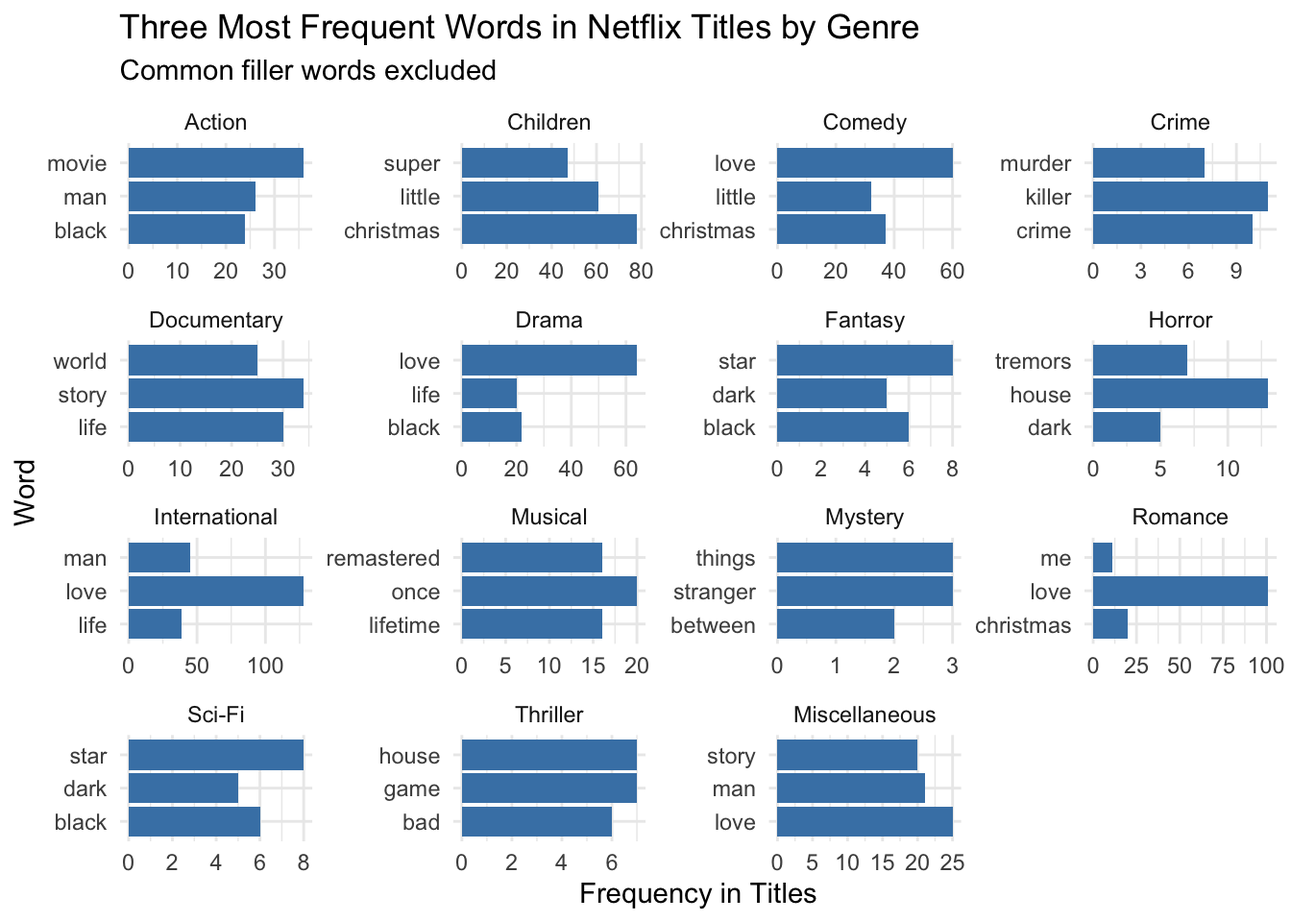
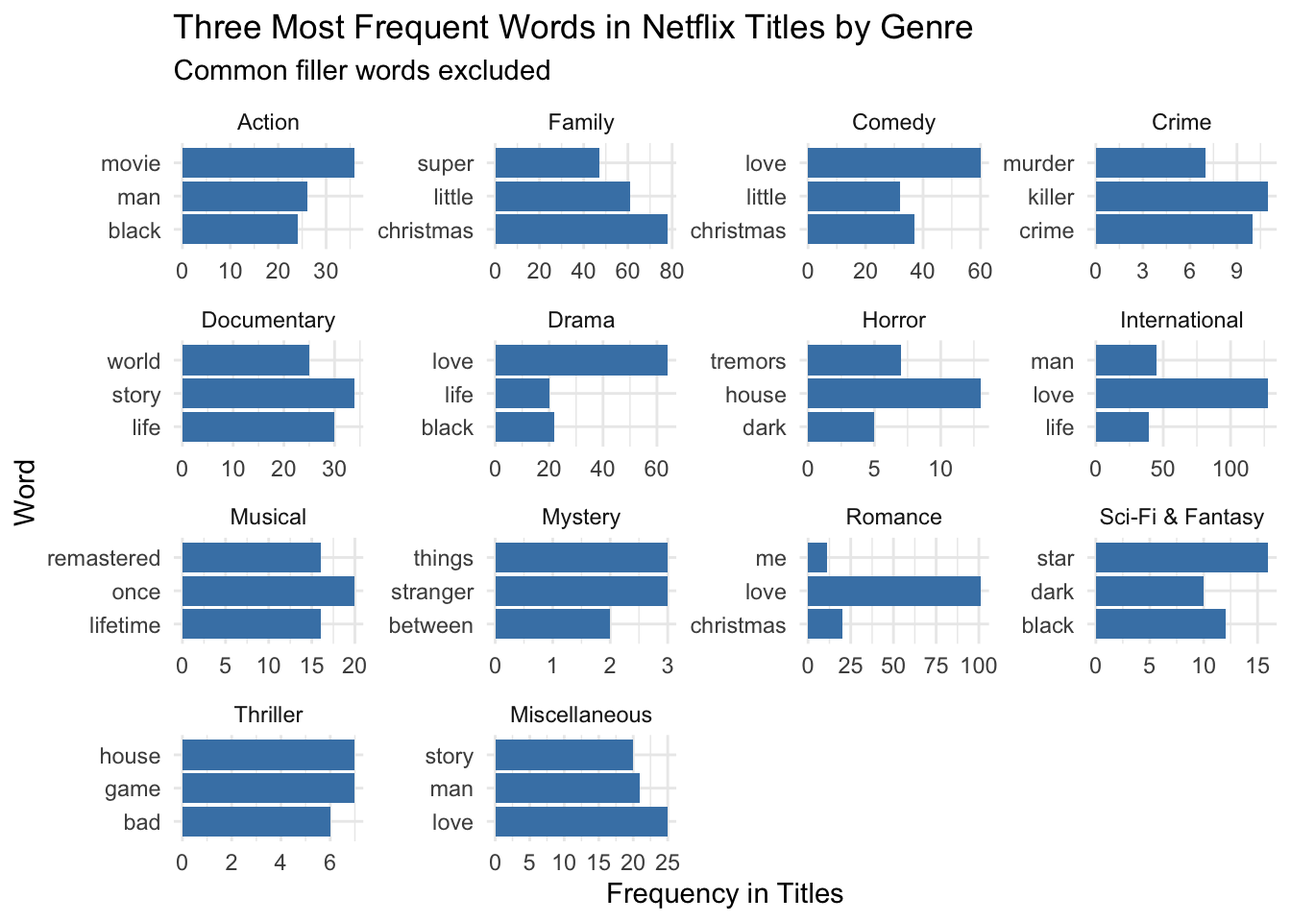
little visualization edits and my description of visualization 1

diff --git a/docs/netflixanalysis.html b/docs/netflixanalysis.html
@@ -354,8 +354,8 @@ pre > code.sourceCode > span > a:first-child::before { text-decoration: underlin
   <li><a href="#data-analysis" id="toc-data-analysis" class="nav-link" data-scroll-target="#data-analysis">Data Analysis</a>
   <ul class="collapse">
   <li><a href="#visualization-1" id="toc-visualization-1" class="nav-link" data-scroll-target="#visualization-1">Visualization 1</a></li>
-  </ul></li>
   <li><a href="#visualization-2" id="toc-visualization-2" class="nav-link" data-scroll-target="#visualization-2">Visualization 2</a></li>
+  </ul></li>
   </ul>
 </nav>
     </div>
@@ -409,8 +409,9 @@ pre > code.sourceCode > span > a:first-child::before { text-decoration: underlin
 </div>
 <section id="introduction" class="level1">
 <h1>Introduction</h1>
-<p>Movie and TV show titles are the first things users look at when trying to decide what to watch on streaming platforms like Netflix. While titles are often short, they are meant to draw audiences in, convince them to watch a movie/show, and hint at what the movie might be about. Thus, my first visualization explores the most frequent words that appear in titles across genres. Specifically, I am looking at 15 genres: Action, Comedy, Drama, Horror, Romance, Sci-Fi, Fantasy, Thriller, Mystery, Documentaries, Musical, Crime, Children, International, and Miscellaneous.</p>
-<p>Next, I will look at how title vocabulary changed before and during Covid-19. Specifically, I want to see whether words that center around disease, death, isolation, and other pandemic-related imagery were more common in movie titles before and during Covid.</p>
+<p>Movie and TV show titles are the first things users look at when trying to decide what to watch on streaming platforms like Netflix. While titles are often short, they are meant to draw audiences in, convince them to watch a movie/show, and hint at what the movie might be about. Thus, for my project, I am looking at what types of words occur in titles throughout genres and during different time periods, to see ___.</p>
+<p>My first visualization explores the most frequent words that appear in titles across genres. Specifically, I am looking at 14 genres: Action, Comedy, Drama, Horror, Romance, Sci-Fi &amp; Fantasy, Thriller, Mystery, Documentaries, Musical, Crime, Family, International, and Miscellaneous.</p>
+<p>Next, I will look at how title vocabulary changed before and during Covid-19. Specifically, I want to see whether words that center around disease, death, isolation, and other pandemic-related imagery were more common in movie titles during Covid as opposed to before.</p>
 </section>
 <section id="about-the-data" class="level1">
 <h1>About the Data</h1>
@@ -426,14 +427,14 @@ pre > code.sourceCode > span > a:first-child::before { text-decoration: underlin
 <div class="cell">
 <details class="code-fold">
 <summary>Show the code</summary>
-<div class="code-copy-outer-scaffold"><div class="sourceCode cell-code" id="cb2"><pre class="sourceCode r code-with-copy"><code class="sourceCode r"><span id="cb2-1"><a href="#cb2-1" aria-hidden="true" tabindex="-1"></a><span class="co">#Creating a subset of the netflix_titles dataset</span></span>
+<div class="code-copy-outer-scaffold"><div class="sourceCode cell-code" id="cb2"><pre class="sourceCode r code-with-copy"><code class="sourceCode r"><span id="cb2-1"><a href="#cb2-1" aria-hidden="true" tabindex="-1"></a><span class="co">#creating a subset of the netflix_titles dataset</span></span>
 <span id="cb2-2"><a href="#cb2-2" aria-hidden="true" tabindex="-1"></a>cleaned_titles <span class="ot">&lt;-</span> netflix_titles <span class="sc">|&gt;</span></span>
 <span id="cb2-3"><a href="#cb2-3" aria-hidden="true" tabindex="-1"></a>    <span class="fu">select</span>(show_id, type, title, listed_in, release_year) <span class="sc">|&gt;</span></span>
 <span id="cb2-4"><a href="#cb2-4" aria-hidden="true" tabindex="-1"></a>    <span class="fu">filter</span>(<span class="sc">!</span><span class="fu">is.na</span>(title), <span class="sc">!</span><span class="fu">is.na</span>(listed_in)) <span class="sc">|&gt;</span></span>
 <span id="cb2-5"><a href="#cb2-5" aria-hidden="true" tabindex="-1"></a>    <span class="fu">separate_rows</span>(listed_in, <span class="at">sep =</span> <span class="st">", "</span>) <span class="sc">|&gt;</span></span>
 <span id="cb2-6"><a href="#cb2-6" aria-hidden="true" tabindex="-1"></a>    <span class="fu">separate_rows</span>(listed_in, <span class="at">sep =</span> <span class="st">"&amp; "</span>)</span>
 <span id="cb2-7"><a href="#cb2-7" aria-hidden="true" tabindex="-1"></a></span>
-<span id="cb2-8"><a href="#cb2-8" aria-hidden="true" tabindex="-1"></a><span class="co">#Adding variables and formatting the cleaned_titles dataset</span></span>
+<span id="cb2-8"><a href="#cb2-8" aria-hidden="true" tabindex="-1"></a><span class="co">#adding variables and formatting the cleaned_titles dataset</span></span>
 <span id="cb2-9"><a href="#cb2-9" aria-hidden="true" tabindex="-1"></a>cleaned_titles <span class="ot">&lt;-</span> cleaned_titles <span class="sc">|&gt;</span></span>
 <span id="cb2-10"><a href="#cb2-10" aria-hidden="true" tabindex="-1"></a>    <span class="fu">mutate</span>(<span class="at">listed_in =</span> <span class="fu">str_to_lower</span>(listed_in)) <span class="sc">|&gt;</span> <span class="co">#string function 1</span></span>
 <span id="cb2-11"><a href="#cb2-11" aria-hidden="true" tabindex="-1"></a>    <span class="fu">mutate</span>(<span class="at">genre =</span> <span class="fu">ifelse</span>(</span>
@@ -447,25 +448,22 @@ pre > code.sourceCode > span > a:first-child::before { text-decoration: underlin
 <span id="cb2-19"><a href="#cb2-19" aria-hidden="true" tabindex="-1"></a></span>
 <span id="cb2-20"><a href="#cb2-20" aria-hidden="true" tabindex="-1"></a>            <span class="fu">ifelse</span>(<span class="fu">str_detect</span>(listed_in, <span class="st">"romant"</span>), <span class="st">"Romance"</span>,</span>
 <span id="cb2-21"><a href="#cb2-21" aria-hidden="true" tabindex="-1"></a></span>
-<span id="cb2-22"><a href="#cb2-22" aria-hidden="true" tabindex="-1"></a>            <span class="fu">ifelse</span>(<span class="fu">str_detect</span>(listed_in, <span class="st">"sci-fi"</span>), <span class="st">"Sci-Fi"</span>,</span>
+<span id="cb2-22"><a href="#cb2-22" aria-hidden="true" tabindex="-1"></a>            <span class="fu">ifelse</span>(<span class="fu">str_detect</span>(listed_in, <span class="st">"sci-fi"</span>) <span class="sc">|</span> <span class="fu">str_detect</span>(listed_in, <span class="st">"fantasy"</span>), <span class="st">"Sci-Fi &amp; Fantasy"</span>,</span>
 <span id="cb2-23"><a href="#cb2-23" aria-hidden="true" tabindex="-1"></a></span>
-<span id="cb2-24"><a href="#cb2-24" aria-hidden="true" tabindex="-1"></a>            <span class="fu">ifelse</span>(<span class="fu">str_detect</span>(listed_in, <span class="st">"fantasy"</span>), <span class="st">"Fantasy"</span>,</span>
+<span id="cb2-24"><a href="#cb2-24" aria-hidden="true" tabindex="-1"></a>            <span class="fu">ifelse</span>(<span class="fu">str_detect</span>(listed_in, <span class="st">"thriller"</span>), <span class="st">"Thriller"</span>,</span>
 <span id="cb2-25"><a href="#cb2-25" aria-hidden="true" tabindex="-1"></a></span>
-<span id="cb2-26"><a href="#cb2-26" aria-hidden="true" tabindex="-1"></a>            <span class="fu">ifelse</span>(<span class="fu">str_detect</span>(listed_in, <span class="st">"thriller"</span>), <span class="st">"Thriller"</span>,</span>
+<span id="cb2-26"><a href="#cb2-26" aria-hidden="true" tabindex="-1"></a>            <span class="fu">ifelse</span>(<span class="fu">str_detect</span>(listed_in, <span class="st">"myster"</span>), <span class="st">"Mystery"</span>,</span>
 <span id="cb2-27"><a href="#cb2-27" aria-hidden="true" tabindex="-1"></a></span>
-<span id="cb2-28"><a href="#cb2-28" aria-hidden="true" tabindex="-1"></a>            <span class="fu">ifelse</span>(<span class="fu">str_detect</span>(listed_in, <span class="st">"myster"</span>), <span class="st">"Mystery"</span>,</span>
+<span id="cb2-28"><a href="#cb2-28" aria-hidden="true" tabindex="-1"></a>            <span class="fu">ifelse</span>(<span class="fu">str_detect</span>(listed_in, <span class="st">"docu"</span>) <span class="sc">|</span> <span class="fu">str_detect</span>(listed_in, <span class="st">"nature"</span>) <span class="sc">|</span> <span class="fu">str_detect</span>(listed_in, <span class="st">"science"</span>), <span class="st">"Documentary"</span>,</span>
 <span id="cb2-29"><a href="#cb2-29" aria-hidden="true" tabindex="-1"></a></span>
-<span id="cb2-30"><a href="#cb2-30" aria-hidden="true" tabindex="-1"></a>            <span class="fu">ifelse</span>(<span class="fu">str_detect</span>(listed_in, <span class="st">"docu"</span>) <span class="sc">|</span> <span class="fu">str_detect</span>(listed_in, <span class="st">"nature"</span>) <span class="sc">|</span> <span class="fu">str_detect</span>(listed_in, <span class="st">"science"</span>), <span class="st">"Documentary"</span>,</span>
+<span id="cb2-30"><a href="#cb2-30" aria-hidden="true" tabindex="-1"></a>            <span class="fu">ifelse</span>(<span class="fu">str_detect</span>(listed_in, <span class="st">"music"</span>), <span class="st">"Musical"</span>,</span>
 <span id="cb2-31"><a href="#cb2-31" aria-hidden="true" tabindex="-1"></a></span>
-<span id="cb2-32"><a href="#cb2-32" aria-hidden="true" tabindex="-1"></a>            <span class="fu">ifelse</span>(<span class="fu">str_detect</span>(listed_in, <span class="st">"music"</span>), <span class="st">"Musical"</span>,</span>
+<span id="cb2-32"><a href="#cb2-32" aria-hidden="true" tabindex="-1"></a>            <span class="fu">ifelse</span>(<span class="fu">str_detect</span>(listed_in, <span class="st">"crime"</span>), <span class="st">"Crime"</span>,</span>
 <span id="cb2-33"><a href="#cb2-33" aria-hidden="true" tabindex="-1"></a></span>
-<span id="cb2-34"><a href="#cb2-34" aria-hidden="true" tabindex="-1"></a>            <span class="fu">ifelse</span>(<span class="fu">str_detect</span>(listed_in, <span class="st">"crime"</span>), <span class="st">"Crime"</span>,</span>
+<span id="cb2-34"><a href="#cb2-34" aria-hidden="true" tabindex="-1"></a>            <span class="fu">ifelse</span>(<span class="fu">str_detect</span>(listed_in, <span class="st">"children"</span>) <span class="sc">|</span> <span class="fu">str_detect</span>(listed_in, <span class="st">"kid"</span>) <span class="sc">|</span> <span class="fu">str_detect</span>(listed_in, <span class="st">"teen"</span>) <span class="sc">|</span> <span class="fu">str_detect</span>(listed_in, <span class="st">"family"</span>), <span class="st">"Family"</span>, </span>
 <span id="cb2-35"><a href="#cb2-35" aria-hidden="true" tabindex="-1"></a></span>
-<span id="cb2-36"><a href="#cb2-36" aria-hidden="true" tabindex="-1"></a>            <span class="fu">ifelse</span>(<span class="fu">str_detect</span>(listed_in, <span class="st">"children"</span>) <span class="sc">|</span> <span class="fu">str_detect</span>(listed_in, <span class="st">"kid"</span>) <span class="sc">|</span> <span class="fu">str_detect</span>(listed_in, <span class="st">"teen"</span>) <span class="sc">|</span> <span class="fu">str_detect</span>(listed_in, <span class="st">"family"</span>), <span class="st">"Children"</span>, </span>
-<span id="cb2-37"><a href="#cb2-37" aria-hidden="true" tabindex="-1"></a></span>
-<span id="cb2-38"><a href="#cb2-38" aria-hidden="true" tabindex="-1"></a>            <span class="fu">ifelse</span>(<span class="fu">str_detect</span>(listed_in, <span class="st">"international"</span>) <span class="sc">|</span> <span class="fu">str_detect</span>(listed_in, <span class="st">"british"</span>) <span class="sc">|</span> <span class="fu">str_detect</span>(listed_in, <span class="st">"korean"</span>) <span class="sc">|</span> <span class="fu">str_detect</span>(listed_in, <span class="st">"spanish"</span>), <span class="st">"International"</span>,</span>
-<span id="cb2-39"><a href="#cb2-39" aria-hidden="true" tabindex="-1"></a>            <span class="st">"Miscellaneous"</span>))))))))))))))</span>
-<span id="cb2-40"><a href="#cb2-40" aria-hidden="true" tabindex="-1"></a>        )</span></code></pre></div><button title="Copy to Clipboard" class="code-copy-button"><i class="bi"></i></button></div>
+<span id="cb2-36"><a href="#cb2-36" aria-hidden="true" tabindex="-1"></a>            <span class="fu">ifelse</span>(<span class="fu">str_detect</span>(listed_in, <span class="st">"international"</span>) <span class="sc">|</span> <span class="fu">str_detect</span>(listed_in, <span class="st">"british"</span>) <span class="sc">|</span> <span class="fu">str_detect</span>(listed_in, <span class="st">"korean"</span>) <span class="sc">|</span> <span class="fu">str_detect</span>(listed_in, <span class="st">"spanish"</span>), <span class="st">"International"</span>,</span>
+<span id="cb2-37"><a href="#cb2-37" aria-hidden="true" tabindex="-1"></a>            <span class="st">"Miscellaneous"</span>))))))))))))))</span></code></pre></div><button title="Copy to Clipboard" class="code-copy-button"><i class="bi"></i></button></div>
 </details>
 </div>
 <section id="visualization-1" class="level2">
@@ -476,7 +474,7 @@ pre > code.sourceCode > span > a:first-child::before { text-decoration: underlin
 <div class="code-copy-outer-scaffold"><div class="sourceCode cell-code" id="cb3"><pre class="sourceCode r code-with-copy"><code class="sourceCode r"><span id="cb3-1"><a href="#cb3-1" aria-hidden="true" tabindex="-1"></a><span class="co">#filler words that need to be excluded</span></span>
 <span id="cb3-2"><a href="#cb3-2" aria-hidden="true" tabindex="-1"></a>stop_words <span class="ot">&lt;-</span> <span class="fu">c</span>(<span class="st">"the"</span>, <span class="st">"and"</span>, <span class="st">"for"</span>, <span class="st">"with"</span>, <span class="st">"you"</span>, <span class="st">"your"</span>, <span class="st">"are"</span>, <span class="st">"was"</span>, <span class="st">"but"</span>, <span class="st">"not"</span>, <span class="st">"from"</span>, <span class="st">"this"</span>, <span class="st">"that"</span>, <span class="st">"his"</span>, <span class="st">"her"</span>, <span class="st">"its"</span>, <span class="st">"our"</span>, <span class="st">"out"</span>, <span class="st">"one"</span>, <span class="st">"two"</span>, <span class="st">"of"</span>, <span class="st">"in"</span>, <span class="st">"to"</span>, <span class="st">"my"</span>, <span class="st">"la"</span>, <span class="st">"el"</span>, <span class="st">"on"</span>, <span class="st">"de"</span>, <span class="st">"be"</span>)</span>
 <span id="cb3-3"><a href="#cb3-3" aria-hidden="true" tabindex="-1"></a></span>
-<span id="cb3-4"><a href="#cb3-4" aria-hidden="true" tabindex="-1"></a><span class="co">#splitting titles into individual words and cleaning them up</span></span>
+<span id="cb3-4"><a href="#cb3-4" aria-hidden="true" tabindex="-1"></a><span class="co">#splitting the titles into individual words and cleaning them up</span></span>
 <span id="cb3-5"><a href="#cb3-5" aria-hidden="true" tabindex="-1"></a>title_words <span class="ot">&lt;-</span> cleaned_titles <span class="sc">|&gt;</span></span>
 <span id="cb3-6"><a href="#cb3-6" aria-hidden="true" tabindex="-1"></a>    <span class="fu">separate_rows</span>(title, <span class="at">sep =</span> <span class="st">"</span><span class="sc">\\</span><span class="st">s+"</span>) <span class="sc">|&gt;</span> <span class="co">#regex 1</span></span>
 <span id="cb3-7"><a href="#cb3-7" aria-hidden="true" tabindex="-1"></a>    <span class="fu">mutate</span>(<span class="at">word =</span> <span class="fu">str_to_lower</span>(title), <span class="at">word =</span> <span class="fu">str_replace_all</span>(word, <span class="st">"[^a-z]"</span>, <span class="st">""</span>)) <span class="sc">|&gt;</span> <span class="co">#3rd string function! and 2nd regex</span></span>
@@ -492,7 +490,7 @@ pre > code.sourceCode > span > a:first-child::before { text-decoration: underlin
 <span id="cb3-17"><a href="#cb3-17" aria-hidden="true" tabindex="-1"></a>    <span class="fu">arrange</span>(<span class="fu">desc</span>(frequency), word) <span class="sc">|&gt;</span></span>
 <span id="cb3-18"><a href="#cb3-18" aria-hidden="true" tabindex="-1"></a>    <span class="fu">mutate</span>(<span class="at">rank =</span> <span class="fu">row_number</span>()) <span class="sc">|&gt;</span></span>
 <span id="cb3-19"><a href="#cb3-19" aria-hidden="true" tabindex="-1"></a>    <span class="fu">filter</span>(rank <span class="sc">&lt;=</span> <span class="dv">3</span>) <span class="sc">|&gt;</span></span>
-<span id="cb3-20"><a href="#cb3-20" aria-hidden="true" tabindex="-1"></a>    <span class="fu">mutate</span>(<span class="at">genre =</span> <span class="fu">fct_relevel</span>(genre, <span class="fu">c</span>(<span class="st">"Action"</span>, <span class="st">"Children"</span>, <span class="st">"Comedy"</span>, <span class="st">"Crime"</span>, <span class="st">"Documentary"</span>, <span class="st">"Drama"</span>, <span class="st">"Fantasy"</span>, <span class="st">"Horror"</span>, <span class="st">"International"</span>, <span class="st">"Musical"</span>, <span class="st">"Mystery"</span>, <span class="st">"Romance"</span>, <span class="st">"Sci-Fi"</span>, <span class="st">"Thriller"</span>, <span class="st">"Miscellaneous"</span>))) <span class="co">#factor function!</span></span>
+<span id="cb3-20"><a href="#cb3-20" aria-hidden="true" tabindex="-1"></a>    <span class="fu">mutate</span>(<span class="at">genre =</span> <span class="fu">fct_relevel</span>(genre, <span class="fu">c</span>(<span class="st">"Action"</span>, <span class="st">"Family"</span>, <span class="st">"Comedy"</span>, <span class="st">"Crime"</span>, <span class="st">"Documentary"</span>, <span class="st">"Drama"</span>, <span class="st">"Horror"</span>, <span class="st">"International"</span>, <span class="st">"Musical"</span>, <span class="st">"Mystery"</span>, <span class="st">"Romance"</span>, <span class="st">"Sci-Fi &amp; Fantasy"</span>, <span class="st">"Thriller"</span>, <span class="st">"Miscellaneous"</span>))) <span class="co">#factor function!</span></span>
 <span id="cb3-21"><a href="#cb3-21" aria-hidden="true" tabindex="-1"></a></span>
 <span id="cb3-22"><a href="#cb3-22" aria-hidden="true" tabindex="-1"></a></span>
 <span id="cb3-23"><a href="#cb3-23" aria-hidden="true" tabindex="-1"></a><span class="co">#making the plot</span></span>
@@ -516,10 +514,11 @@ pre > code.sourceCode > span > a:first-child::before { text-decoration: underlin
 </div>
 </div>
 </div>
+<p>For this first visualization, I wanted to see how the most frequent words in movie/TV show titles differed across the various genres I chose. To do so, I sorted each of the 42 genres in the original dataset into 14 genres (Action, Comedy, Drama, Horror, Romance, Sci-Fi &amp; Fantasy, Thriller, Mystery, Documentaries, Musical, Crime, Family, International, and Miscellaneous) and identified the top 3 words that appeared in movie titles with all of these genres. Some of the results I found were expected, such as with the crime genre’s most popular words in titles (“murder”, “killer”, and “crime”) or with the words in the documentary genre (“world”, “story”, “life”). Additionally, there are words that appear throughout many genres, like “love” and “christmas”. However, the visual also shows us that many of the genres have titles with unintuitive words. For example, “black” is a word that shows up in many tites across genres, but I can’t think of why that is.</p>
+<p>Ultimately, looking at this visual, it is clear that the connotations of words are considered when creating titles across genres. For example, words like “christmas” evoke feelings of comfort and joy, and these words are most frequently in romance, comedy, and family titles. On the other hand, words like “murder” and “killer” in movie/TV show titles suggest the title will be a crime-related story, and words like “house” and “dark” used in combination can suggest a horror/thriller title.</p>
 </section>
-</section>
-<section id="visualization-2" class="level1">
-<h1>Visualization 2</h1>
+<section id="visualization-2" class="level2">
+<h2 class="anchored" data-anchor-id="visualization-2">Visualization 2</h2>
 <div class="cell">
 <details class="code-fold">
 <summary>Show the code</summary>
@@ -528,13 +527,13 @@ pre > code.sourceCode > span > a:first-child::before { text-decoration: underlin
 <span id="cb4-3"><a href="#cb4-3" aria-hidden="true" tabindex="-1"></a>    <span class="fu">filter</span>(type <span class="sc">==</span> <span class="st">"Movie"</span>, <span class="sc">!</span><span class="fu">is.na</span>(title),<span class="sc">!</span><span class="fu">is.na</span>(release_year)) <span class="sc">|&gt;</span></span>
 <span id="cb4-4"><a href="#cb4-4" aria-hidden="true" tabindex="-1"></a>    <span class="fu">mutate</span>(<span class="at">period =</span> <span class="fu">ifelse</span>(release_year <span class="sc">&lt;=</span> <span class="dv">2018</span>, <span class="st">"Before COVID-19 (2018 and earlier)"</span>, <span class="st">"During COVID-19 (2019 and 2020)"</span>)) <span class="sc">|&gt;</span></span>
 <span id="cb4-5"><a href="#cb4-5" aria-hidden="true" tabindex="-1"></a></span>
-<span id="cb4-6"><a href="#cb4-6" aria-hidden="true" tabindex="-1"></a>    <span class="fu">mutate</span>(<span class="at">disease =</span> <span class="fu">str_detect</span>(<span class="fu">str_to_lower</span>(title), <span class="st">"</span><span class="sc">\\</span><span class="st">b(covid|coronavirus|virus|viral|pandemic|epidemic|infection|infected|infectious|disease|plague|outbreak|fever|sick|sickness|illness|ill|contagion|contagious|germ|symptom|cough|flu|influenza|bacteria|bacterial|vaccine|vaccination|quarantine)</span><span class="sc">\\</span><span class="st">b"</span>)) <span class="sc">|&gt;</span></span>
+<span id="cb4-6"><a href="#cb4-6" aria-hidden="true" tabindex="-1"></a>    <span class="fu">mutate</span>(<span class="at">disease =</span> <span class="fu">str_detect</span>(<span class="fu">str_to_lower</span>(title), <span class="st">"</span><span class="sc">\\</span><span class="st">b(covid|coronavirus|virus|viral|pandemic|epidemic|infection|infected|infectious|disease|plague|outbreak|fever|sick|sickness|illness|ill|contagion|contagious|germ|symptom|cough|flu|influenza|bacteria|bacterial|vaccine|vaccination|quarantine|inject|injection|shot|)</span><span class="sc">\\</span><span class="st">b"</span>))<span class="sc">|&gt;</span></span>
 <span id="cb4-7"><a href="#cb4-7" aria-hidden="true" tabindex="-1"></a>    </span>
-<span id="cb4-8"><a href="#cb4-8" aria-hidden="true" tabindex="-1"></a>    <span class="fu">mutate</span>(<span class="at">death =</span> <span class="fu">str_detect</span>(<span class="fu">str_to_lower</span>(title),<span class="st">"</span><span class="sc">\\</span><span class="st">b(death|dead|dying|die|died|dies|funeral|grave|graveyard|morgue|corpse|cemetery|burial|bury|buried|murder|murdered|killer|kill|killed|suicide|fatal|fatality)</span><span class="sc">\\</span><span class="st">b"</span>)) <span class="sc">|&gt;</span></span>
+<span id="cb4-8"><a href="#cb4-8" aria-hidden="true" tabindex="-1"></a>    <span class="fu">mutate</span>(<span class="at">death =</span> <span class="fu">str_detect</span>(<span class="fu">str_to_lower</span>(title),<span class="st">"</span><span class="sc">\\</span><span class="st">b(death|dead|dying|die|died|dies|funeral|grave|graveyard|morgue|corpse|cemetery|burial|bury|buried|murder|murdered|killer|kill|killed|suicide|fatal|fatality|gore|blood|bloody|massacre)</span><span class="sc">\\</span><span class="st">b"</span>)) <span class="sc">|&gt;</span></span>
 <span id="cb4-9"><a href="#cb4-9" aria-hidden="true" tabindex="-1"></a>    </span>
-<span id="cb4-10"><a href="#cb4-10" aria-hidden="true" tabindex="-1"></a>    <span class="fu">mutate</span>(<span class="at">isolation =</span> <span class="fu">str_detect</span>(<span class="fu">str_to_lower</span>(title),<span class="st">"</span><span class="sc">\\</span><span class="st">b(alone|lonely|loneliness|isolation|isolated|quarantine|lockdown|trapped|confined|separated|solitude|abandoned|stranded|deserted|hidden|missing|escape|prison|captive|imprisoned|locked|room|cabin|shelter|exile|outsider)</span><span class="sc">\\</span><span class="st">b"</span>)) <span class="sc">|&gt;</span></span>
+<span id="cb4-10"><a href="#cb4-10" aria-hidden="true" tabindex="-1"></a>    <span class="fu">mutate</span>(<span class="at">isolation =</span> <span class="fu">str_detect</span>(<span class="fu">str_to_lower</span>(title),<span class="st">"</span><span class="sc">\\</span><span class="st">b(alone|lonely|loneliness|isolation|isolated|quarantine|lockdown|trapped|confined|separated|solitude|abandoned|stranded|deserted|hidden|missing|escape|prison|captive|imprisoned|locked|room|cabin|shelter|exile|outsider|cage|lone|lock)</span><span class="sc">\\</span><span class="st">b"</span>)) <span class="sc">|&gt;</span></span>
 <span id="cb4-11"><a href="#cb4-11" aria-hidden="true" tabindex="-1"></a></span>
-<span id="cb4-12"><a href="#cb4-12" aria-hidden="true" tabindex="-1"></a>    <span class="fu">mutate</span>(<span class="at">fear_survival =</span> <span class="fu">str_detect</span>(<span class="fu">str_to_lower</span>(title),<span class="st">"</span><span class="sc">\\</span><span class="st">b(fear|afraid|terror|terrified|panic|nightmare|survive|survival|survivor|apocalypse|apocalyptic|disaster|catastrophe|danger|threat|warning|destruction|collapse|end|extinction|invasion|attack|crisis|emergency|sacrifice|shelter|escape|chaos|doom|doomed)</span><span class="sc">\\</span><span class="st">b"</span>))</span>
+<span id="cb4-12"><a href="#cb4-12" aria-hidden="true" tabindex="-1"></a>    <span class="fu">mutate</span>(<span class="at">fear_survival =</span> <span class="fu">str_detect</span>(<span class="fu">str_to_lower</span>(title),<span class="st">"</span><span class="sc">\\</span><span class="st">b(fear|afraid|terror|terrified|panic|nightmare|survive|survival|survivor|apocalypse|apocalyptic|disaster|catastrophe|danger|threat|warning|destruction|collapse|end|extinction|invasion|attack|crisis|emergency|sacrifice|shelter|escape|chaos|doom|doomed|scared|panic|nightmare)</span><span class="sc">\\</span><span class="st">b"</span>))</span>
 <span id="cb4-13"><a href="#cb4-13" aria-hidden="true" tabindex="-1"></a></span>
 <span id="cb4-14"><a href="#cb4-14" aria-hidden="true" tabindex="-1"></a></span>
 <span id="cb4-15"><a href="#cb4-15" aria-hidden="true" tabindex="-1"></a></span>
@@ -577,58 +576,9 @@ pre > code.sourceCode > span > a:first-child::before { text-decoration: underlin
 </div>
 </div>
 </div>
-<div class="cell">
-<details class="code-fold">
-<summary>Show the code</summary>
-<div class="code-copy-outer-scaffold"><div class="sourceCode cell-code" id="cb5"><pre class="sourceCode r code-with-copy"><code class="sourceCode r"><span id="cb5-1"><a href="#cb5-1" aria-hidden="true" tabindex="-1"></a><span class="co"># if (str_detect(listed_in, "action") | str_detect(listed_in, "adventure")){</span></span>
-<span id="cb5-2"><a href="#cb5-2" aria-hidden="true" tabindex="-1"></a><span class="co">#                 genre = "Action"</span></span>
-<span id="cb5-3"><a href="#cb5-3" aria-hidden="true" tabindex="-1"></a><span class="co">#             }</span></span>
-<span id="cb5-4"><a href="#cb5-4" aria-hidden="true" tabindex="-1"></a><span class="co">#             else if (str_detect(listed_in, "comed")){</span></span>
-<span id="cb5-5"><a href="#cb5-5" aria-hidden="true" tabindex="-1"></a><span class="co">#                 genre = "Comedy"</span></span>
-<span id="cb5-6"><a href="#cb5-6" aria-hidden="true" tabindex="-1"></a><span class="co">#             }</span></span>
-<span id="cb5-7"><a href="#cb5-7" aria-hidden="true" tabindex="-1"></a><span class="co">#             else if (str_detect(listed_in, "drama")){</span></span>
-<span id="cb5-8"><a href="#cb5-8" aria-hidden="true" tabindex="-1"></a><span class="co">#                 genre = "Drama"</span></span>
-<span id="cb5-9"><a href="#cb5-9" aria-hidden="true" tabindex="-1"></a><span class="co">#             }</span></span>
-<span id="cb5-10"><a href="#cb5-10" aria-hidden="true" tabindex="-1"></a><span class="co">#             else if (str_detect(listed_in, "horror")){</span></span>
-<span id="cb5-11"><a href="#cb5-11" aria-hidden="true" tabindex="-1"></a><span class="co">#                 genre = "Horror"</span></span>
-<span id="cb5-12"><a href="#cb5-12" aria-hidden="true" tabindex="-1"></a><span class="co">#             }</span></span>
-<span id="cb5-13"><a href="#cb5-13" aria-hidden="true" tabindex="-1"></a><span class="co">#             else if (str_detect(listed_in, "romant")){</span></span>
-<span id="cb5-14"><a href="#cb5-14" aria-hidden="true" tabindex="-1"></a><span class="co">#                 genre = "Romance"</span></span>
-<span id="cb5-15"><a href="#cb5-15" aria-hidden="true" tabindex="-1"></a><span class="co">#             }</span></span>
-<span id="cb5-16"><a href="#cb5-16" aria-hidden="true" tabindex="-1"></a><span class="co">#             else if (str_detect(listed_in, "sci-fi")){</span></span>
-<span id="cb5-17"><a href="#cb5-17" aria-hidden="true" tabindex="-1"></a><span class="co">#                 genre = "Sci-Fi"</span></span>
-<span id="cb5-18"><a href="#cb5-18" aria-hidden="true" tabindex="-1"></a><span class="co">#             }</span></span>
-<span id="cb5-19"><a href="#cb5-19" aria-hidden="true" tabindex="-1"></a><span class="co">#             else if (str_detect(listed_in, "fantasy")){</span></span>
-<span id="cb5-20"><a href="#cb5-20" aria-hidden="true" tabindex="-1"></a><span class="co">#                 genre = "Fantasy"</span></span>
-<span id="cb5-21"><a href="#cb5-21" aria-hidden="true" tabindex="-1"></a><span class="co">#             }</span></span>
-<span id="cb5-22"><a href="#cb5-22" aria-hidden="true" tabindex="-1"></a><span class="co">#             else if (str_detect(listed_in, "thriller")){</span></span>
-<span id="cb5-23"><a href="#cb5-23" aria-hidden="true" tabindex="-1"></a><span class="co">#                 genre = "Thriller"</span></span>
-<span id="cb5-24"><a href="#cb5-24" aria-hidden="true" tabindex="-1"></a><span class="co">#             }</span></span>
-<span id="cb5-25"><a href="#cb5-25" aria-hidden="true" tabindex="-1"></a><span class="co">#             else if (str_detect(listed_in, "myster")){</span></span>
-<span id="cb5-26"><a href="#cb5-26" aria-hidden="true" tabindex="-1"></a><span class="co">#                 genre = "Mystery"</span></span>
-<span id="cb5-27"><a href="#cb5-27" aria-hidden="true" tabindex="-1"></a><span class="co">#             }</span></span>
-<span id="cb5-28"><a href="#cb5-28" aria-hidden="true" tabindex="-1"></a><span class="co">#             else if (str_detect(listed_in, "docu") | str_detect(listed_in, "nature") | str_detect(listed_in, "science")){</span></span>
-<span id="cb5-29"><a href="#cb5-29" aria-hidden="true" tabindex="-1"></a><span class="co">#                 genre = "Comedy"</span></span>
-<span id="cb5-30"><a href="#cb5-30" aria-hidden="true" tabindex="-1"></a><span class="co">#             }</span></span>
-<span id="cb5-31"><a href="#cb5-31" aria-hidden="true" tabindex="-1"></a><span class="co">#             else if (str_detect(listed_in, "music")){</span></span>
-<span id="cb5-32"><a href="#cb5-32" aria-hidden="true" tabindex="-1"></a><span class="co">#                 genre = "Musical"</span></span>
-<span id="cb5-33"><a href="#cb5-33" aria-hidden="true" tabindex="-1"></a><span class="co">#             }</span></span>
-<span id="cb5-34"><a href="#cb5-34" aria-hidden="true" tabindex="-1"></a><span class="co">#             else if (str_detect(listed_in, "crime")){</span></span>
-<span id="cb5-35"><a href="#cb5-35" aria-hidden="true" tabindex="-1"></a><span class="co">#                 genre = "Crime"</span></span>
-<span id="cb5-36"><a href="#cb5-36" aria-hidden="true" tabindex="-1"></a><span class="co">#             }</span></span>
-<span id="cb5-37"><a href="#cb5-37" aria-hidden="true" tabindex="-1"></a><span class="co">#             else if (str_detect(listed_in, "children") | str_detect(listed_in, "kid") | str_detect(listed_in, "teen") | str_detect(listed_in, "family")){</span></span>
-<span id="cb5-38"><a href="#cb5-38" aria-hidden="true" tabindex="-1"></a><span class="co">#                 genre = "Comedy"</span></span>
-<span id="cb5-39"><a href="#cb5-39" aria-hidden="true" tabindex="-1"></a><span class="co">#             }</span></span>
-<span id="cb5-40"><a href="#cb5-40" aria-hidden="true" tabindex="-1"></a><span class="co">#             else if (str_detect(listed_in, "international") | str_detect(listed_in, "british") | str_detect(listed_in, "korean") | str_detect(listed_in, "spanish")){</span></span>
-<span id="cb5-41"><a href="#cb5-41" aria-hidden="true" tabindex="-1"></a><span class="co">#                 genre = "International"</span></span>
-<span id="cb5-42"><a href="#cb5-42" aria-hidden="true" tabindex="-1"></a><span class="co">#             }</span></span>
-<span id="cb5-43"><a href="#cb5-43" aria-hidden="true" tabindex="-1"></a><span class="co">#             else{</span></span>
-<span id="cb5-44"><a href="#cb5-44" aria-hidden="true" tabindex="-1"></a><span class="co">#                 genre = "Miscellaneous"</span></span>
-<span id="cb5-45"><a href="#cb5-45" aria-hidden="true" tabindex="-1"></a><span class="co">#             }</span></span></code></pre></div><button title="Copy to Clipboard" class="code-copy-button"><i class="bi"></i></button></div>
-</details>
-</div>
 
 
+</section>
 </section>
 
 </main> <!-- /main -->
